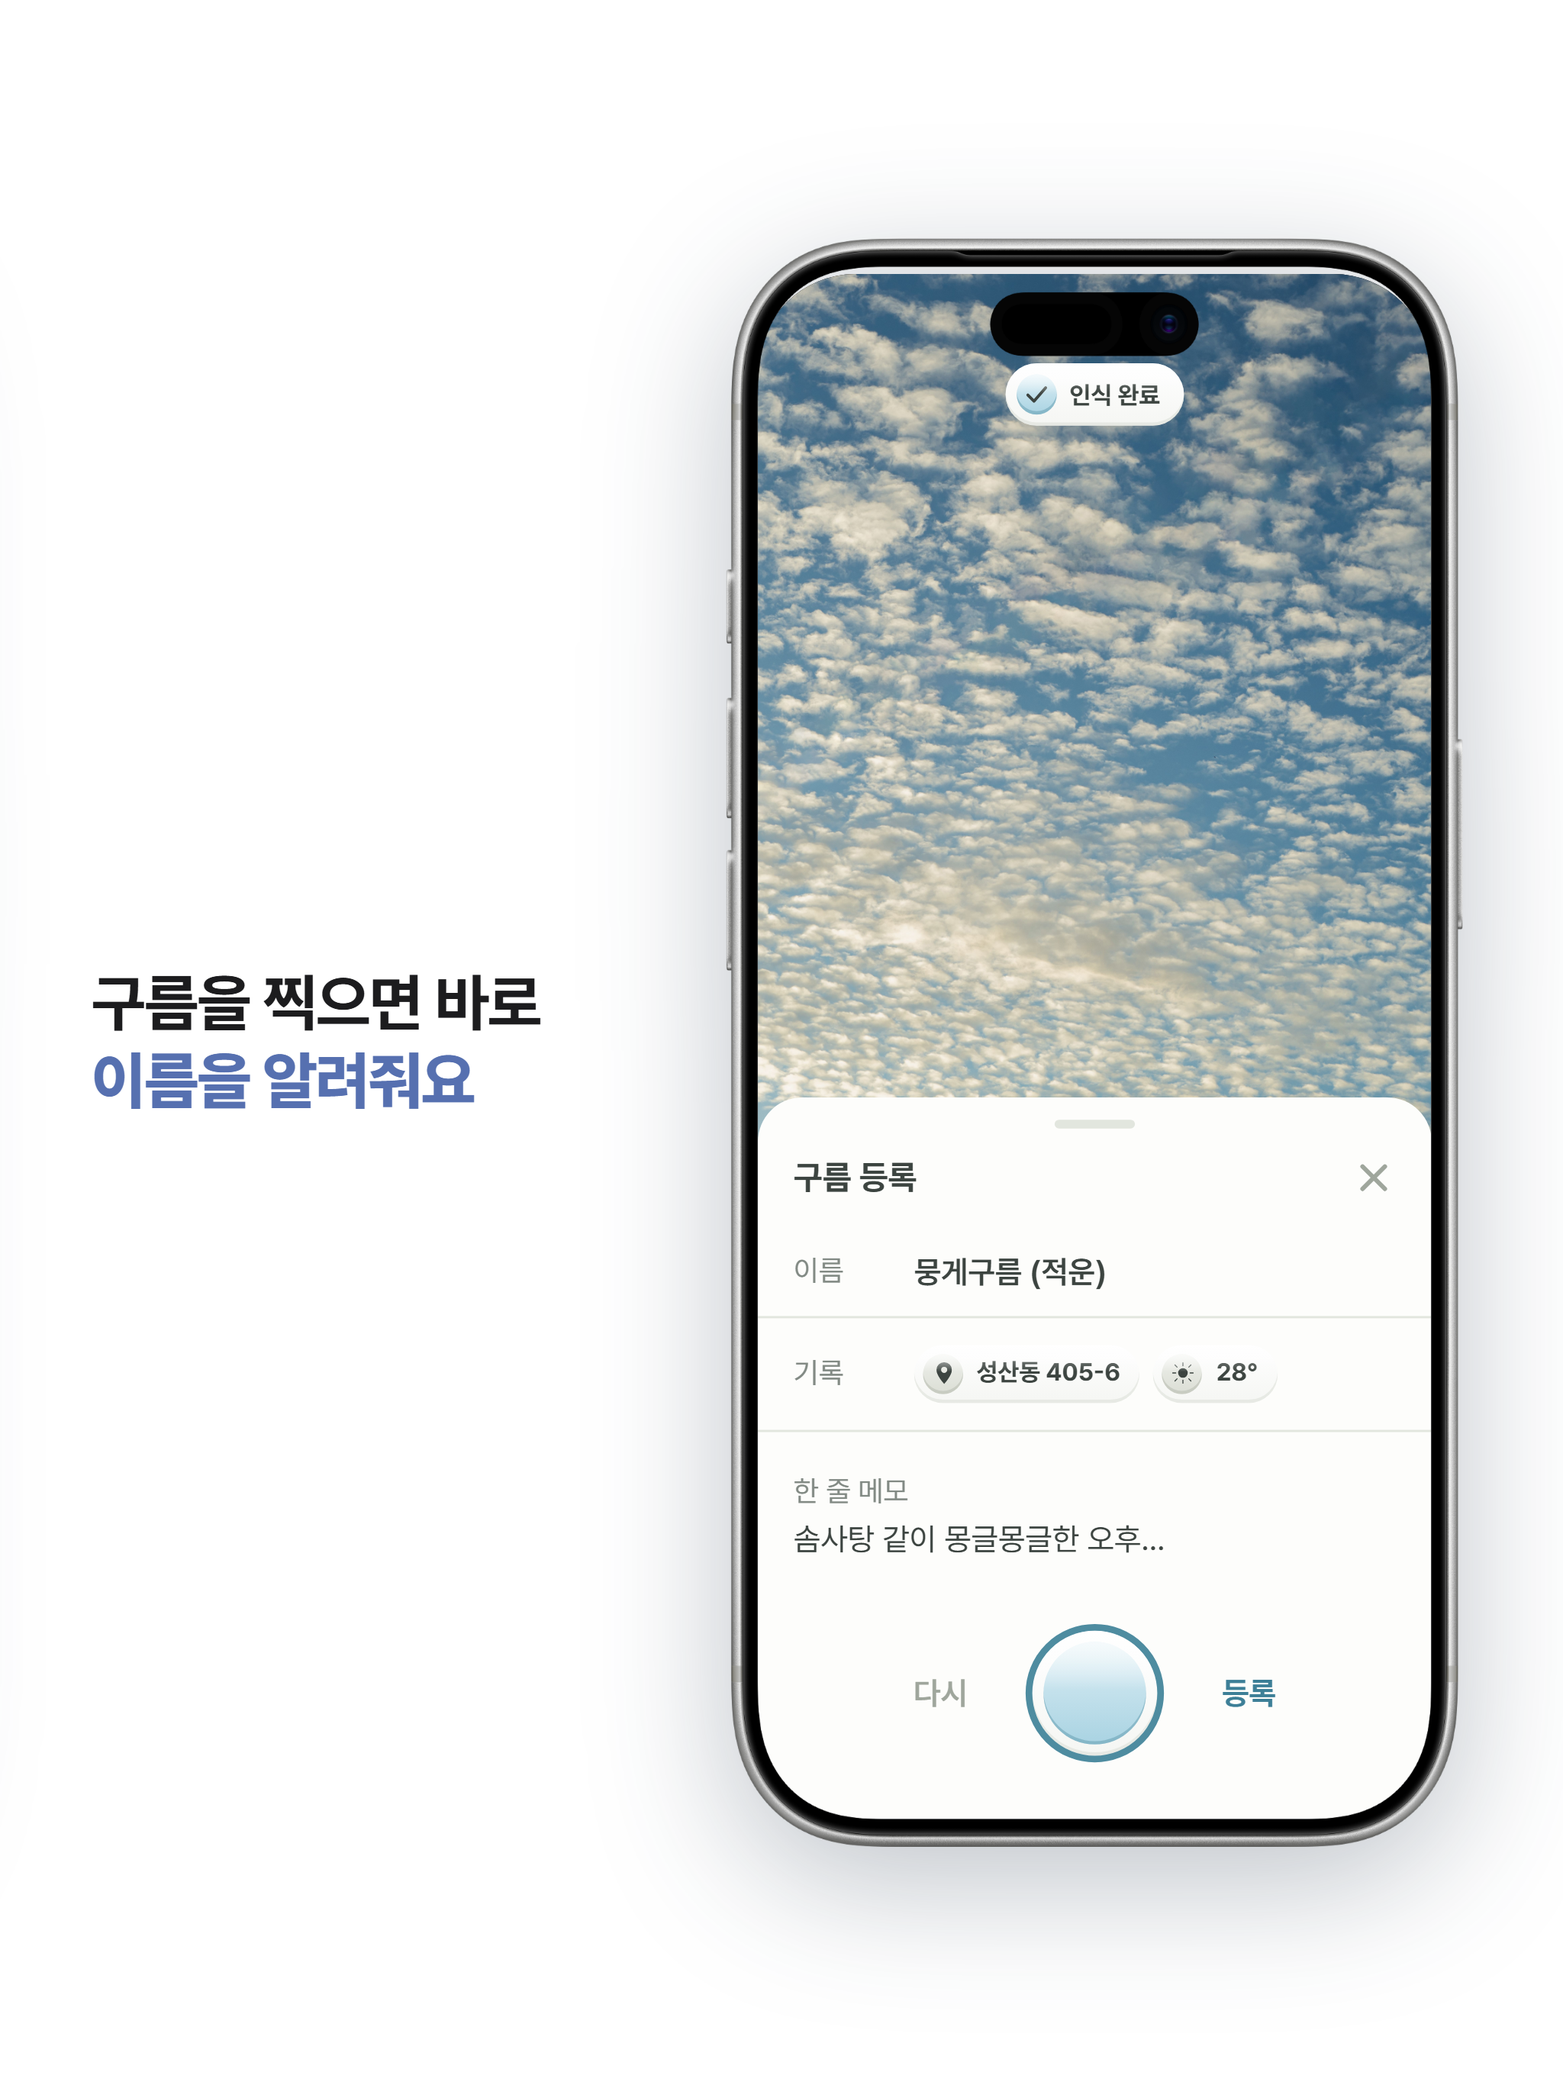
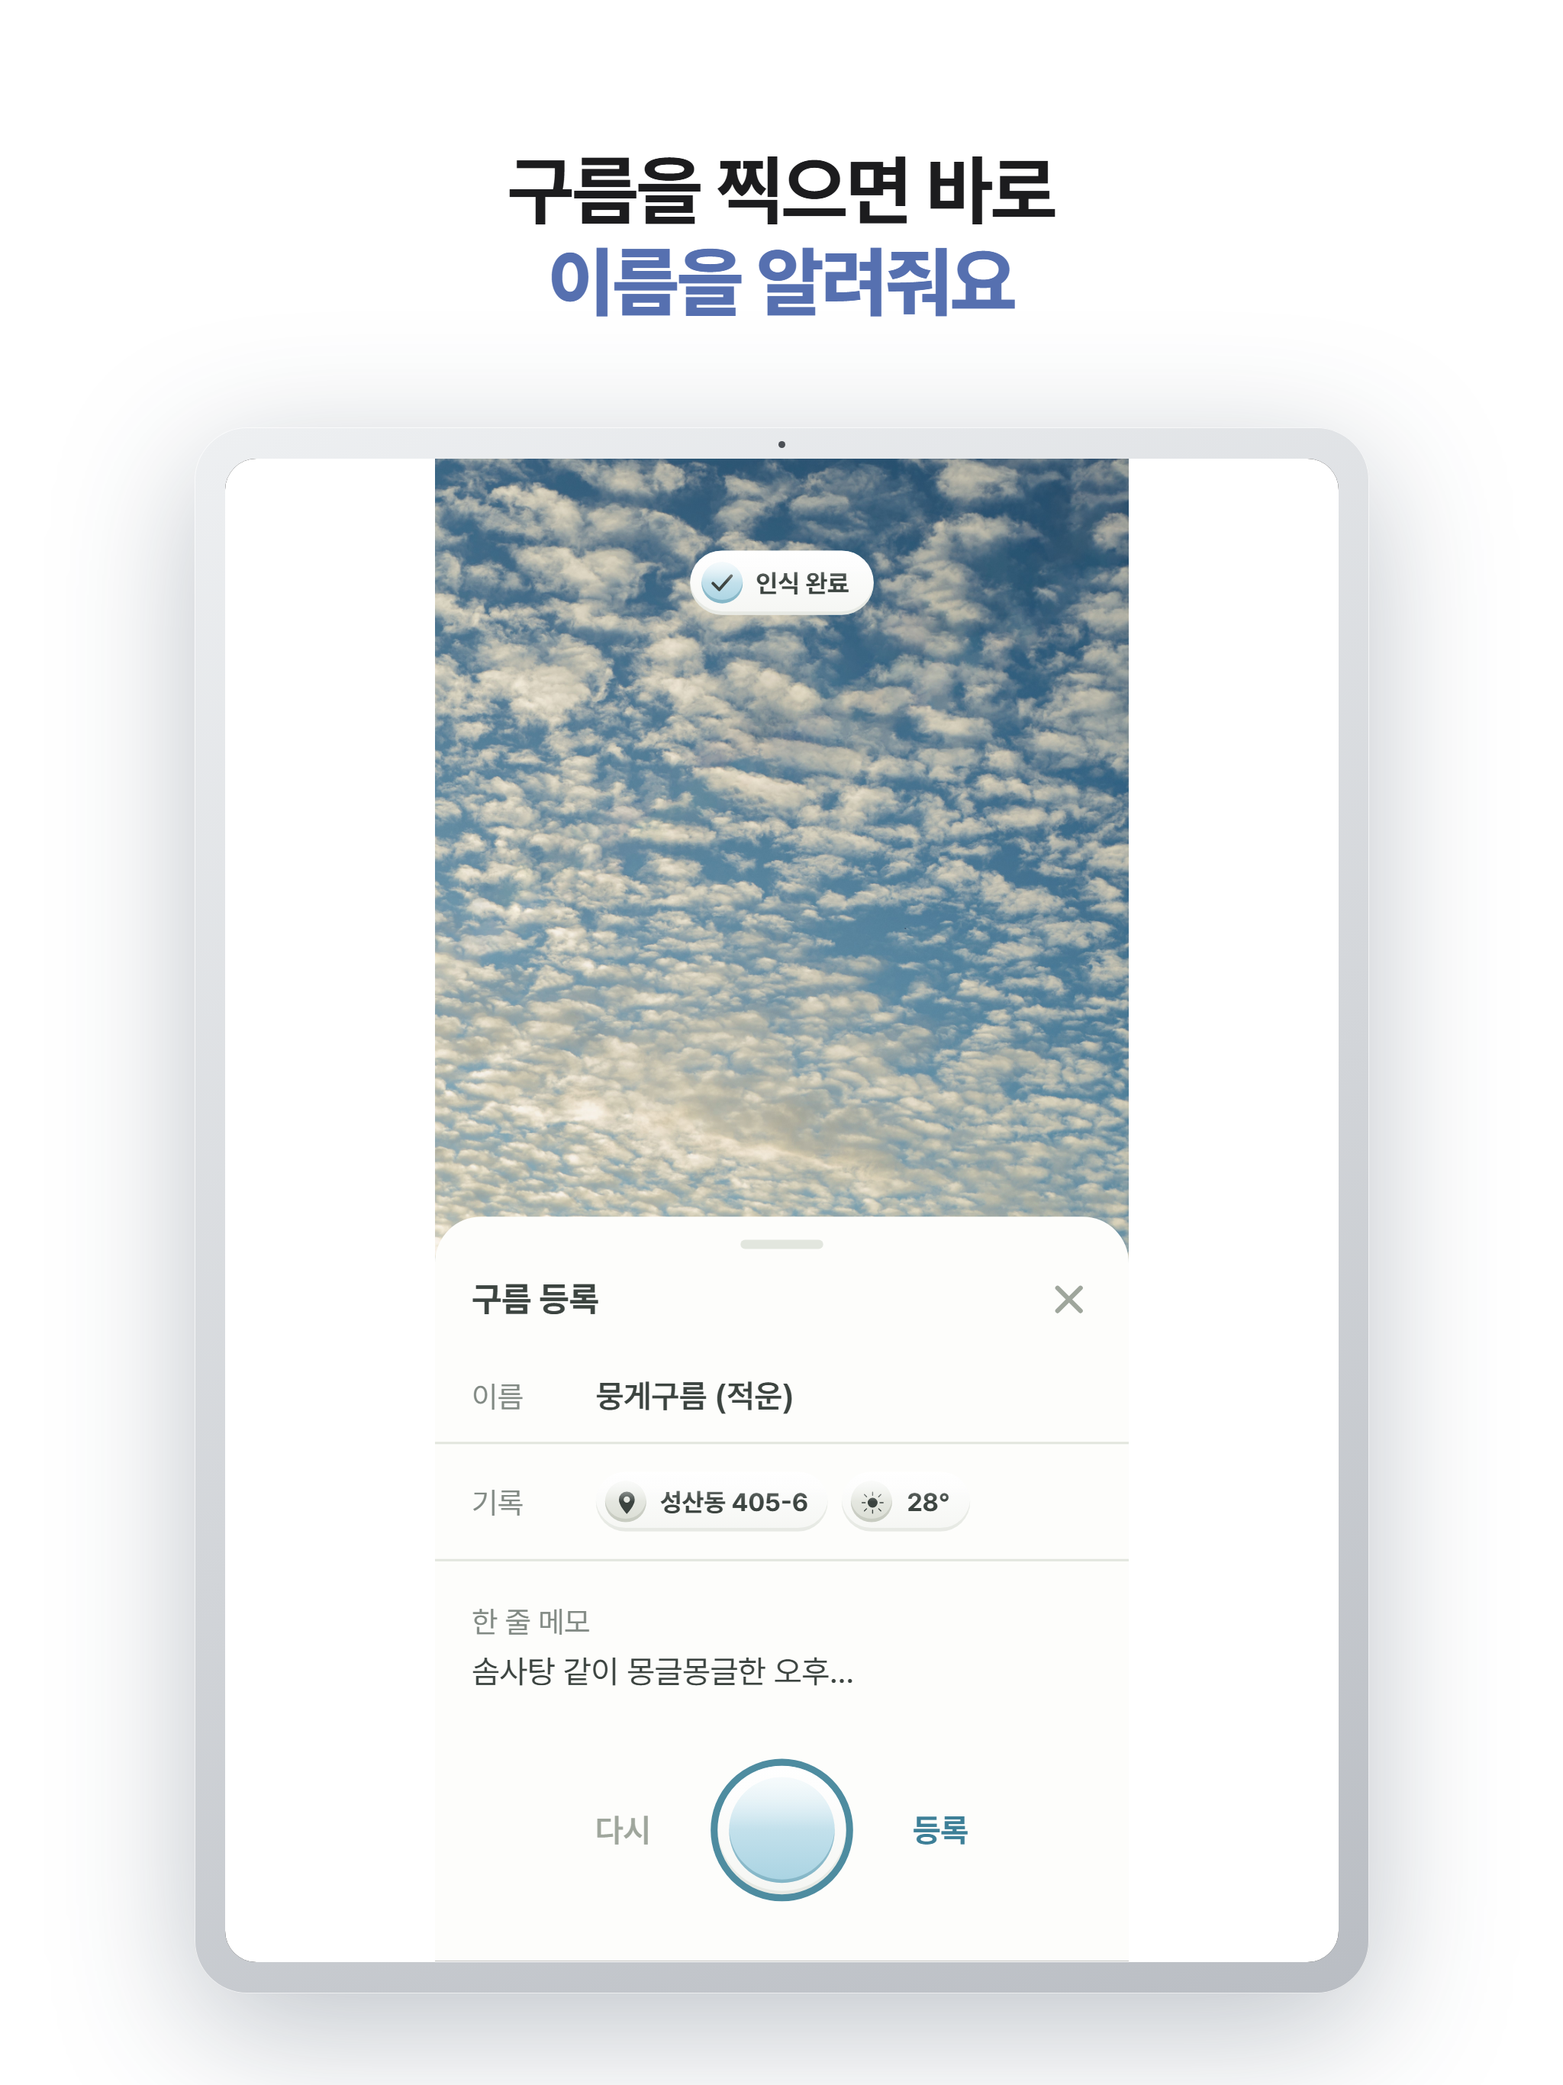
fix: render an actual iPad device mockup for the App Store screenshot set
Previous iPad panels reused the iPhone bezel scaled up, which doesn't
read as an iPad. Adds IpadFrame (flat aluminum-style tablet silhouette
drawn in CSS, no photoreal asset available) and IpadScreenContent, which
centers the phone-shaped app screen inside the iPad's screen area with
blank space on either side — matching how a non-iPad-optimized iPhone
app actually renders on a real iPad, since this app has no iPad UI.

diff --git a/design/src/AppIpad.tsx b/design/src/AppIpad.tsx
@@ -1,6 +1,6 @@
 import Panel from "./components/Panel";
-import PhoneFrame, { getScreenSize } from "./components/PhoneFrame";
-import ScreenScale from "./components/ScreenScale";
+import IpadFrame, { getIpadScreenSize } from "./components/IpadFrame";
+import IpadScreenContent from "./components/IpadScreenContent";
 import { sys, COVER_GRADIENT } from "./theme";
 import { CANVAS_H, CANVAS_W, PANEL_W, PANEL_H } from "./ipadLayout";
 
@@ -12,45 +12,30 @@ import MapScreen from "./sections/MapScreen";
 import StreakScreen from "./sections/StreakScreen";
 
 // iPad (12.9"/13") App Store screenshot set — same 6 marketing beats as
-// App.tsx, re-laid-out for the iPad panel's much wider, closer-to-square
-// canvas (2048x2732, ratio ~0.75) instead of the iPhone's tall 1284x2778
-// (ratio ~0.46). A stacked caption-then-phone layout would leave the iPad
-// canvas mostly empty on the sides, so straight panels go side-by-side
-// (caption left, phone right) instead — the iPad canvas has the width to
-// spare that the iPhone one didn't.
-//
-// The cover panel is a straight scale-up of Hero.tsx's two-phone composite
-// (1200x1600, ratio 0.75 — effectively the same shape as this iPad panel),
-// since that layout was already tuned for this exact aspect ratio.
-const HERO_SCALE = PANEL_W / 1200;
-const s = (n: number) => Math.round(n * HERO_SCALE);
-
-// The caption's emphasized line uses the exact same blue as the cover/
-// closing panels' background — one accent tying the whole set together,
-// not an invented hue per screen (matches App.tsx's convention).
+// App.tsx, but showing an actual iPad-shaped device mockup (IpadFrame)
+// instead of the iPhone bezel. The app has no iPad-specific UI, so each
+// frame's screen area shows the same phone-shaped screen centered with
+// blank space on either side — exactly how a non-iPad-optimized iPhone
+// app actually renders on an iPad, rather than stretching/cropping the UI
+// to fill the wider screen.
 const EMPHASIS_COLOR = COVER_GRADIENT[1];
 
-const MARGIN = 120;
-const GAP = 60;
-const TEXT_COL_W = 760;
-const STAGE_LEFT = MARGIN + TEXT_COL_W + GAP;
-const STAGE_W = PANEL_W - STAGE_LEFT - MARGIN;
-const STAGE_H = Math.round((STAGE_W * 19.5) / 9);
-const STAGE_TOP = Math.round((PANEL_H - STAGE_H) / 2);
-const stageScreen = getScreenSize(STAGE_W, STAGE_H);
+const CAPTION_TOP = 190;
+const STAGE_TOP = 560;
+const SIDE_MARGIN = 140;
+const BOTTOM_MARGIN = 120;
 
-const CLOSING_STAGE_W = 900;
-const CLOSING_STAGE_H = Math.round((CLOSING_STAGE_W * 19.5) / 9);
-const CLOSING_STAGE_TOP = Math.round((PANEL_H - CLOSING_STAGE_H) / 2);
-const CLOSING_STAGE_LEFT = MARGIN + Math.round((STAGE_W - CLOSING_STAGE_W) / 2);
-const closingScreen = getScreenSize(CLOSING_STAGE_W, CLOSING_STAGE_H);
+const STAGE_W = Math.min(
+  PANEL_W - 2 * SIDE_MARGIN,
+  Math.round(((PANEL_H - STAGE_TOP - BOTTOM_MARGIN) * 3) / 4),
+);
+const STAGE_H = Math.round((STAGE_W * 4) / 3);
+const STAGE_LEFT = Math.round((PANEL_W - STAGE_W) / 2);
+const stageScreen = getIpadScreenSize(STAGE_W, STAGE_H);
 
-const COVER_BACK_W = s(480);
-const COVER_BACK_H = Math.round((COVER_BACK_W * 19.5) / 9);
-const coverBackScreen = getScreenSize(COVER_BACK_W, COVER_BACK_H);
-const COVER_FRONT_W = s(600);
-const COVER_FRONT_H = Math.round((COVER_FRONT_W * 19.5) / 9);
-const coverFrontScreen = getScreenSize(COVER_FRONT_W, COVER_FRONT_H);
+const COVER_W = 1500;
+const COVER_H = Math.round((COVER_W * 4) / 3);
+const coverScreen = getIpadScreenSize(COVER_W, COVER_H);
 
 export default function AppIpad() {
   return (
@@ -65,7 +50,7 @@ export default function AppIpad() {
         background: "#FFFFFF",
       }}
     >
-      {/* ===== 1. COVER — Hero.tsx's two-phone composite, scaled up ===== */}
+      {/* ===== 1. COVER ===== */}
       <Panel width={PANEL_W} height={PANEL_H}>
         <div
           style={{
@@ -75,45 +60,19 @@ export default function AppIpad() {
             overflow: "hidden",
           }}
         >
-          <div style={{ position: "absolute", top: s(50), left: s(50), fontFamily: "Cloudsofa", fontSize: s(130), color: "#FFFFFF", lineHeight: 1, letterSpacing: "-0.01em" }}>
+          <div style={{ position: "absolute", top: 90, left: 100, fontFamily: "Cloudsofa", fontSize: 210, color: "#FFFFFF", lineHeight: 1, letterSpacing: "-0.01em" }}>
             mongle
           </div>
-          <div style={{ position: "absolute", top: s(178), left: s(50), fontSize: s(22), fontWeight: 600, color: "rgba(255,255,255,0.9)", lineHeight: 1.4, letterSpacing: "-0.01em" }}>
+          <div style={{ position: "absolute", top: 340, left: 100, right: 160, fontSize: 42, fontWeight: 600, color: "rgba(255,255,255,0.9)", lineHeight: 1.4, letterSpacing: "-0.01em" }}>
             매일 올려다보는 하늘,
             <br />
             수집하는 재미가 되다.
           </div>
-          <div
-            style={{
-              position: "absolute",
-              top: s(60),
-              left: s(620),
-              right: s(50),
-              textAlign: "right",
-              fontSize: s(44),
-              fontWeight: 800,
-              color: "#FFFFFF",
-              lineHeight: 1.16,
-              letterSpacing: "-0.02em",
-            }}
-          >
-            오늘부터,
-            <br />
-            매일의 구름을
-            <br />
-            쌓아보세요
-          </div>
-
-          <PhoneFrame width={COVER_BACK_W} height={COVER_BACK_H} rotateDeg={6} style={{ left: s(640), top: s(400) }}>
-            <ScreenScale width={coverBackScreen.width} height={coverBackScreen.height}>
-              <StreakScreen />
-            </ScreenScale>
-          </PhoneFrame>
-          <PhoneFrame width={COVER_FRONT_W} height={COVER_FRONT_H} rotateDeg={-6} style={{ left: s(80), top: s(260) }}>
-            <ScreenScale width={coverFrontScreen.width} height={coverFrontScreen.height}>
+          <IpadFrame width={COVER_W} height={COVER_H} rotateDeg={-6} style={{ left: PANEL_W - COVER_W + 220, top: PANEL_H - COVER_H - 60 }}>
+            <IpadScreenContent width={coverScreen.width} height={coverScreen.height}>
               <HomeScreen />
-            </ScreenScale>
-          </PhoneFrame>
+            </IpadScreenContent>
+          </IpadFrame>
         </div>
       </Panel>
 
@@ -133,8 +92,7 @@ export default function AppIpad() {
         <MapScreen />
       </StraightPanel>
 
-      {/* ===== 6. CLOSING — phone left, right-aligned text right (mirrors
-          the straight panels' left-text/right-phone rhythm) ===== */}
+      {/* ===== 6. CLOSING (bookends the cover, features the 나 screen) ===== */}
       <Panel width={PANEL_W} height={PANEL_H}>
         <div
           style={{
@@ -144,38 +102,36 @@ export default function AppIpad() {
             overflow: "hidden",
           }}
         >
-          <PhoneFrame width={CLOSING_STAGE_W} height={CLOSING_STAGE_H} rotateDeg={8} style={{ left: CLOSING_STAGE_LEFT, top: CLOSING_STAGE_TOP }}>
-            <ScreenScale width={closingScreen.width} height={closingScreen.height}>
+          <IpadFrame width={COVER_W} height={COVER_H} rotateDeg={6} style={{ left: -220, top: PANEL_H - COVER_H - 60 }}>
+            <IpadScreenContent width={coverScreen.width} height={coverScreen.height}>
               <StreakScreen />
-            </ScreenScale>
-          </PhoneFrame>
-
+            </IpadScreenContent>
+          </IpadFrame>
+          <div style={{ position: "absolute", top: 90, right: 100, textAlign: "right", zIndex: 1 }}>
+            <span style={{ fontFamily: "Cloudsofa", fontSize: 56, color: "#FFFFFF", letterSpacing: "-0.01em" }}>mongle</span>
+          </div>
           <div
             style={{
               position: "absolute",
-              left: STAGE_LEFT,
-              right: MARGIN,
-              top: 0,
-              bottom: 0,
-              display: "flex",
-              flexDirection: "column",
-              justifyContent: "center",
-              alignItems: "flex-end",
+              top: 260,
+              left: 100,
+              right: 100,
               textAlign: "right",
+              fontSize: 84,
+              fontWeight: 800,
+              color: "#FFFFFF",
+              lineHeight: 1.16,
+              letterSpacing: "-0.02em",
               zIndex: 1,
             }}
           >
-            <span style={{ fontFamily: "Cloudsofa", fontSize: 64, color: "#FFFFFF", letterSpacing: "-0.01em" }}>mongle</span>
-            <div style={{ marginTop: 28, fontSize: 88, fontWeight: 800, color: "#FFFFFF", lineHeight: 1.18, letterSpacing: "-0.02em" }}>
-              오늘부터,
-              <br />
-              매일의 구름을
-              <br />
-              쌓아보세요
-            </div>
+            오늘부터,
+            <br />
+            매일의 구름을
+            <br />
+            쌓아보세요
           </div>
-
-          <div style={{ position: "absolute", right: MARGIN, bottom: 90, textAlign: "right", fontSize: 26, color: "rgba(255,255,255,0.65)", zIndex: 1 }}>
+          <div style={{ position: "absolute", right: 100, bottom: 90, textAlign: "right", fontSize: 26, color: "rgba(255,255,255,0.65)", zIndex: 1 }}>
             Copyright ⓒ mongle
           </div>
         </div>
@@ -187,28 +143,18 @@ export default function AppIpad() {
 function StraightPanel({ prefix, emphasis, children }: { prefix: string; emphasis: string; children: React.ReactNode }) {
   return (
     <Panel width={PANEL_W} height={PANEL_H}>
-      <div
-        style={{
-          position: "absolute",
-          left: MARGIN,
-          width: TEXT_COL_W,
-          top: 0,
-          bottom: 0,
-          display: "flex",
-          alignItems: "center",
-        }}
-      >
-        <div style={{ fontSize: 82, fontWeight: 700, color: sys.ink, lineHeight: 1.24, letterSpacing: "-0.02em" }}>
+      <div style={{ position: "absolute", top: CAPTION_TOP, left: 60, right: 60, textAlign: "center" }}>
+        <div style={{ fontSize: 100, fontWeight: 700, color: sys.ink, lineHeight: 1.2, letterSpacing: "-0.02em" }}>
           {prefix}
           <br />
           <span style={{ fontWeight: 800, color: EMPHASIS_COLOR }}>{emphasis}</span>
         </div>
       </div>
-      <PhoneFrame width={STAGE_W} height={STAGE_H} rotateDeg={0} style={{ left: STAGE_LEFT, top: STAGE_TOP }}>
-        <ScreenScale width={stageScreen.width} height={stageScreen.height}>
+      <IpadFrame width={STAGE_W} height={STAGE_H} rotateDeg={0} style={{ left: STAGE_LEFT, top: STAGE_TOP }}>
+        <IpadScreenContent width={stageScreen.width} height={stageScreen.height}>
           {children}
-        </ScreenScale>
-      </PhoneFrame>
+        </IpadScreenContent>
+      </IpadFrame>
     </Panel>
   );
 }

diff --git a/design/src/components/IpadFrame.tsx b/design/src/components/IpadFrame.tsx
@@ -1,0 +1,77 @@
+import type { CSSProperties, ReactNode } from "react";
+
+type Props = {
+  width: number;
+  height: number;
+  rotateDeg?: number;
+  children: ReactNode;
+  style?: CSSProperties;
+  shadow?: boolean;
+};
+
+// No photoreal iPad asset on hand (only the iPhone Bezel.png), so this draws
+// a clean flat aluminum-style iPad silhouette in CSS: thin uniform bezel,
+// rounded body, single top-center camera dot — reads as "tablet" without
+// needing a bitmap. Percentages mirror PhoneFrame's cutout convention.
+const SCREEN_LEFT_PCT = 2.6;
+const SCREEN_TOP_PCT = 2.0;
+const SCREEN_W_PCT = 94.8;
+const SCREEN_H_PCT = 96.0;
+
+export function getIpadScreenSize(width: number, height: number) {
+  return { width: Math.round((width * SCREEN_W_PCT) / 100), height: Math.round((height * SCREEN_H_PCT) / 100) };
+}
+
+export default function IpadFrame({ width, height, rotateDeg = 0, children, style, shadow = true }: Props) {
+  const radius = Math.round(width * 0.045);
+  const screenRadius = Math.round(radius * 0.6);
+  const dot = Math.max(6, Math.round(width * 0.006));
+  return (
+    <div
+      style={{
+        position: "absolute",
+        width,
+        height,
+        transform: `rotate(${rotateDeg}deg)`,
+        filter: shadow ? "drop-shadow(0 46px 90px rgba(20,40,60,0.28))" : undefined,
+        ...style,
+      }}
+    >
+      <div
+        style={{
+          position: "absolute",
+          inset: 0,
+          borderRadius: radius,
+          background: "linear-gradient(155deg, #EEF0F2 0%, #D2D5D9 55%, #B9BDC3 100%)",
+          boxShadow: "inset 0 0 0 1px rgba(255,255,255,0.7)",
+        }}
+      />
+      <div
+        style={{
+          position: "absolute",
+          left: `${SCREEN_LEFT_PCT}%`,
+          top: `${SCREEN_TOP_PCT}%`,
+          width: `${SCREEN_W_PCT}%`,
+          height: `${SCREEN_H_PCT}%`,
+          borderRadius: screenRadius,
+          overflow: "hidden",
+          background: "#000",
+        }}
+      >
+        {children}
+      </div>
+      <div
+        style={{
+          position: "absolute",
+          top: Math.round(height * 0.009),
+          left: "50%",
+          width: dot,
+          height: dot,
+          marginLeft: -dot / 2,
+          borderRadius: "50%",
+          background: "#4B4F55",
+        }}
+      />
+    </div>
+  );
+}

diff --git a/design/src/components/IpadScreenContent.tsx b/design/src/components/IpadScreenContent.tsx
@@ -1,0 +1,24 @@
+import type { ReactNode } from "react";
+import ScreenScale from "./ScreenScale";
+
+type Props = { width: number; height: number; children: ReactNode };
+
+// The app has no iPad-specific UI, so an iPhone app shown on an iPad simply
+// runs at its own phone aspect ratio, centered on the iPad's screen with
+// blank space either side — this reproduces that (real iOS behavior for
+// non-iPad-optimized apps), rather than stretching or cropping the UI to
+// fill the whole iPad screen.
+export default function IpadScreenContent({ width, height, children }: Props) {
+  const phoneH = height;
+  const phoneW = Math.min(width, Math.round((phoneH * 9) / 19.5));
+  const finalH = Math.round((phoneW * 19.5) / 9);
+  return (
+    <div style={{ position: "absolute", inset: 0, background: "#FFFFFF", display: "flex", alignItems: "center", justifyContent: "center" }}>
+      <div style={{ position: "relative", width: phoneW, height: finalH, overflow: "hidden" }}>
+        <ScreenScale width={phoneW} height={finalH}>
+          {children}
+        </ScreenScale>
+      </div>
+    </div>
+  );
+}
